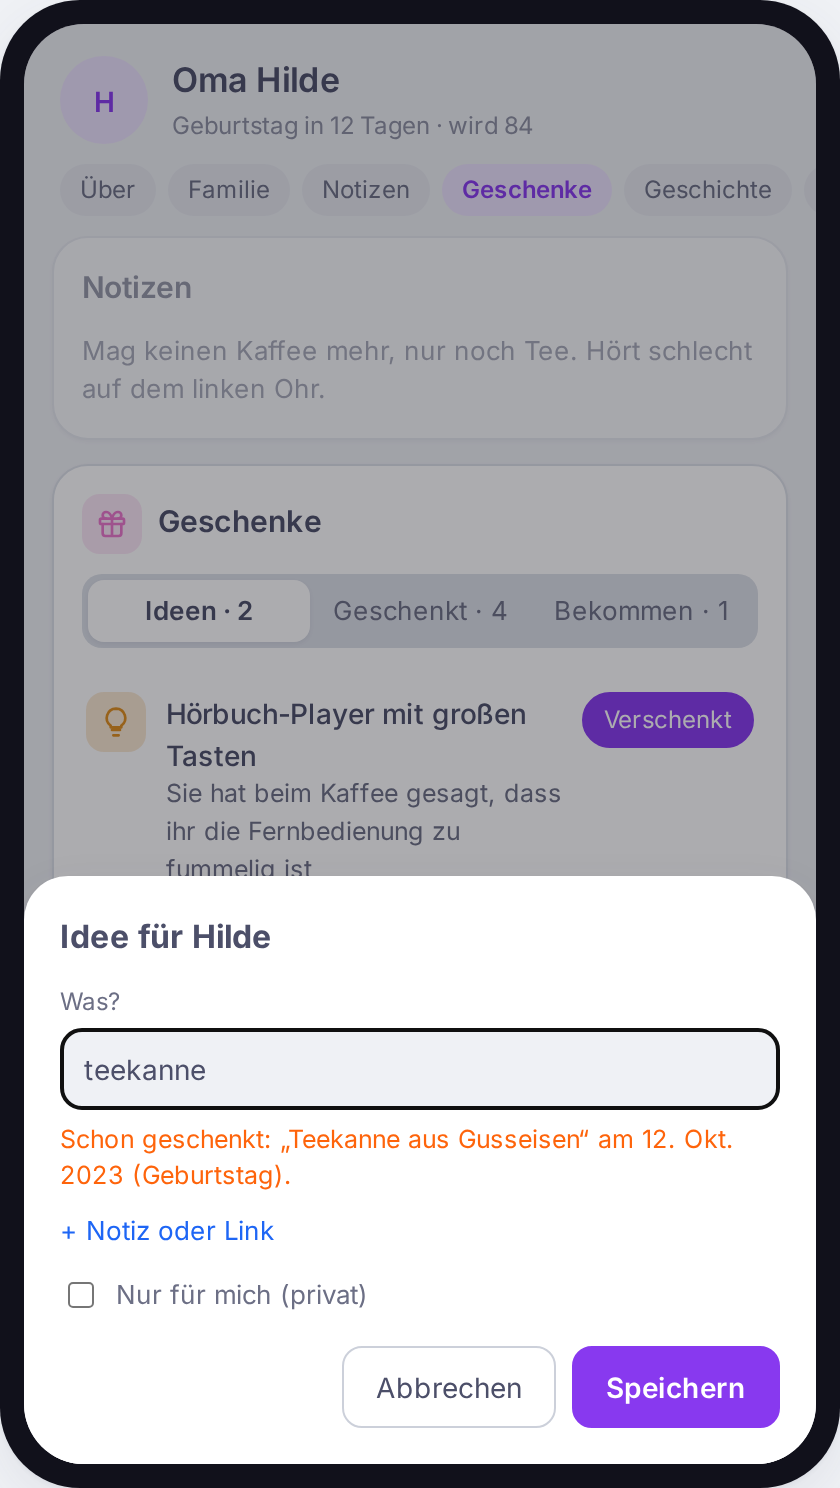
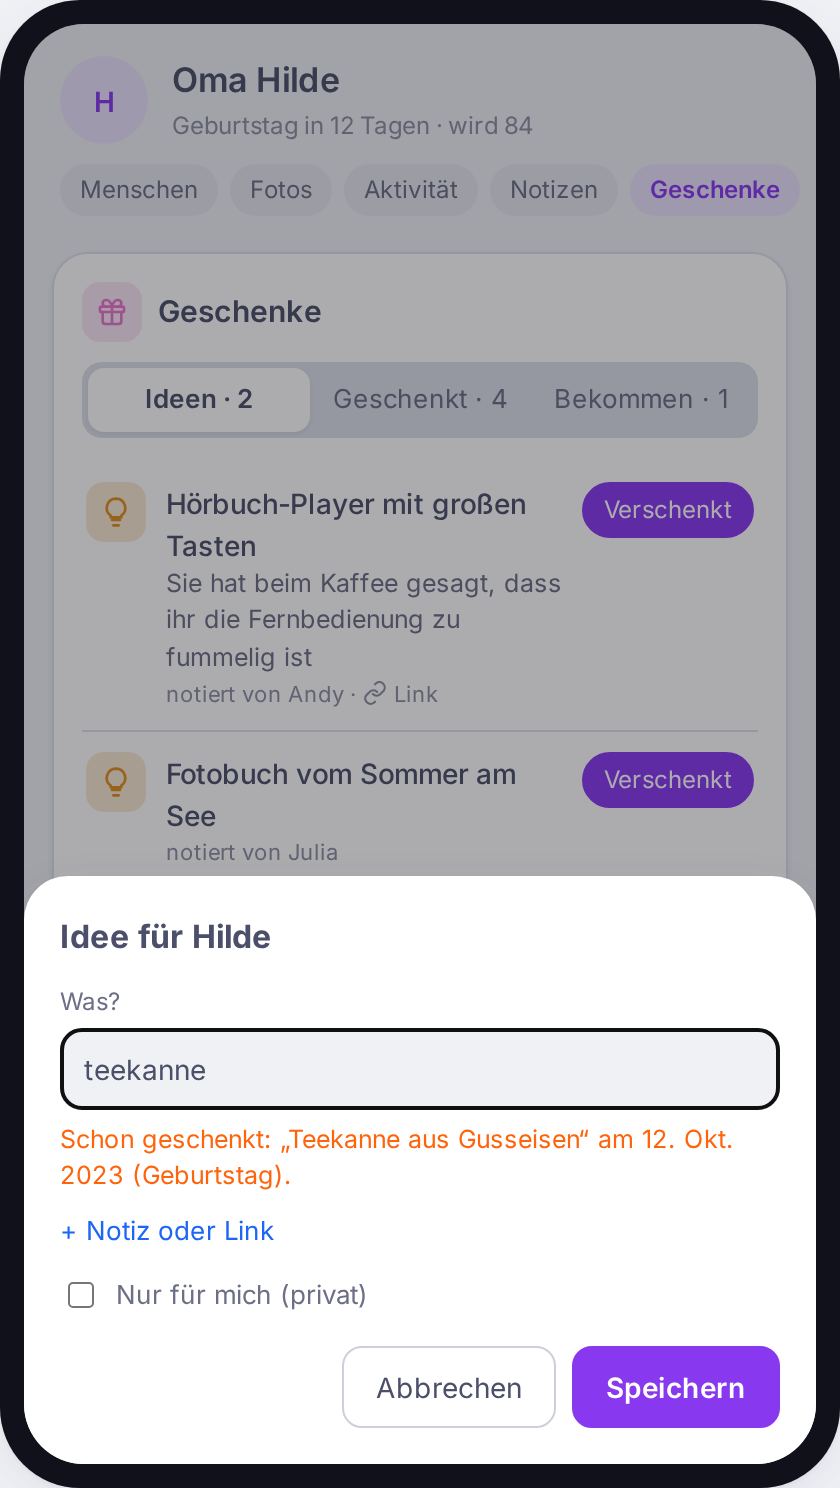
docs(gifts): fit the gifts concept to the current main (#307)
Since the concept: moment means a journal entry and the gift kind is a
touchpoint kind, the story is headed Activity, the person page's card order
and one-line empty cards changed, routes reach use-cases through
locals.services and every addition is a command with its own payload schema.
The concept and its mockup now say so; the decisions are unchanged.

diff --git a/docs/concepts/gifts.html b/docs/concepts/gifts.html
@@ -108,17 +108,18 @@
     <div class="kicker">Konzept · Mockup</div>
     <h1>Geschenke: Ideen merken, Geschenktes nachlesen</h1>
     <p class="lede">Auf der Seite einer Person gibt es eine neue Karte <b>Geschenke</b> mit drei Tabs: offene <b>Ideen</b>, was wir <b>geschenkt</b> haben und was wir <b>bekommen</b> haben.
-    Probier es aus: Notier eine Idee. Tipp „Teekanne“ ein, dann siehst du den Hinweis, dass sie schon geschenkt wurde. Markier eine Idee mit <i>Verschenkt</i>; danach steht sie auch in der Geschichte.</p>
+    Probier es aus: Notier eine Idee. Tipp „Teekanne“ ein, dann siehst du den Hinweis, dass sie schon geschenkt wurde. Markier eine Idee mit <i>Verschenkt</i>; danach steht sie auch unter <i>Aktivität</i>.</p>
   </header>
 
   <div class="row">
     <div class="col">
       <h2>1 · Personenseite</h2>
-      <p>Die Karte steht nach <i>Notizen</i> und bekommt einen eigenen Anker in der Sprungleiste.</p>
+      <p>Die Karte steht nach <i>Notizen</i> und vor <i>Erwähnt in</i> und hat einen eigenen Eintrag in der Sprungleiste. Ohne Geschenke ist sie nur eine Zeile, wie die anderen leeren Karten.</p>
       <div class="phone"><div class="screen" id="screen">
         <div class="topbar"><div class="avatar">H</div><div><div class="name">Oma Hilde</div><div class="sub">Geburtstag in 12 Tagen · wird 84</div></div></div>
-        <div class="jump"><span>Über</span><span>Familie</span><span>Notizen</span><span class="on">Geschenke</span><span>Geschichte</span><span>Fotos</span></div>
+        <div class="jump"><span>Menschen</span><span>Fotos</span><span>Aktivität</span><span>Notizen</span><span class="on">Geschenke</span></div>
         <div class="scroll">
+          <div class="card story"><div class="card-h"><h3>Aktivität</h3></div><div id="story"></div></div>
           <div class="card ghost"><div class="card-h"><h3>Notizen</h3></div><p>Mag keinen Kaffee mehr, nur noch Tee. Hört schlecht auf dem linken Ohr.</p></div>
 
           <div class="card" id="gifts">
@@ -127,8 +128,9 @@
             <div id="list"></div>
             <div class="adds"><button onclick="openAdd('idea')">+ Idee</button><button onclick="openAdd('given')">+ Geschenkt</button><button onclick="openAdd('received')">+ Bekommen</button></div>
           </div>
+          <div class="card ghost"><div class="card-h"><h3>Erwähnt in</h3></div><p>Im Moment von Julia, 3. Aug. 2025: „Mit Oma Hilde am See …“</p></div>
+          <div style="height:360px" aria-hidden="true"></div>
 
-          <div class="card story"><div class="card-h"><h3>Geschichte</h3></div><div id="story"></div></div>
         </div>
 
         <div class="sheet-bg" id="sheetAdd" onclick="if(event.target===this)close_()"><div class="sheet">
@@ -152,11 +154,11 @@
 
     <div class="col">
       <h2>2 · Vor dem Anlass</h2>
-      <p>Wo Stella bevorstehende Geburtstage schon zeigt, steht ein kleiner Hinweis, wenn es offene Ideen gibt. Es wird nichts verschickt.</p>
+      <p>Im Bereich <i>Kommt bald</i> der Startseite steht ein kleiner Hinweis, wenn es offene Ideen gibt. Es wird nichts verschickt.</p>
       <div class="phone"><div class="screen">
         <div class="topbar"><div><div class="name">Startseite</div><div class="sub">Dienstag, 6. Oktober</div></div></div>
         <div class="scroll">
-          <div class="card"><div class="card-h"><h3>Demnächst</h3></div>
+          <div class="card"><div class="card-h"><h3>Kommt bald</h3></div>
             <div class="bday"><div class="avatar">H</div><div class="grow"><div class="t">Oma Hilde · 84</div><div class="sub">Geburtstag am 18. Okt.</div><span class="gifthint" id="homeHint"></span></div></div>
             <div class="bday"><div class="avatar">P</div><div><div class="t">Peter</div><div class="sub">Geburtstag am 2. Nov.</div></div></div>
             <div class="bday"><div class="avatar">J</div><div><div class="t">Julia &amp; Tom</div><div class="sub">Hochzeitstag am 14. Nov.</div><span class="gifthint">1 Idee</span></div></div>
@@ -178,7 +180,7 @@ Teekanne
 12.10.2023
 Die schwarze aus dem Laden am Markt</pre>
       </div>
-      <p class="note-box">So wird umgesetzt: <code>idea</code> wird Idee, <code>offered</code> wird Geschenkt, und <code>received</code> wird Bekommen. Bisherige Momente der Art „Geschenk“ werden ebenfalls zu Geschenken. Eine Notiz, die du nach dem Import bearbeitet hast, bleibt unverändert.</p>
+      <p class="note-box">So wird umgesetzt: <code>idea</code> wird Idee, <code>offered</code> wird Geschenkt, und <code>received</code> wird Bekommen. Bisherige Kontakte der Art „Geschenk“ (<i>Kontakt festhalten</i>) werden ebenfalls zu Geschenken. Eine Notiz, die du nach dem Import bearbeitet hast, bleibt unverändert.</p>
     </div>
   </div>
 </div>
@@ -236,6 +238,8 @@ function openGive(id){state.giving=id;state.occasion='Geburtstag';const g=gifts.
 function give(){const g=gifts.find(x=>x.id===state.giving);g.state='given';g.on=gOn.value;g.occ=state.occasion;state.tab='given';close_();render()}
 function close_(){sheetAdd.classList.remove('open');sheetGive.classList.remove('open')}
 render();
+// Open where the jump bar points: the Gifts card, not the top of the page.
+const giftsCard=document.getElementById('gifts'); giftsCard.parentNode.scrollTop=giftsCard.offsetTop-giftsCard.parentNode.offsetTop-8;
 </script>
 </body>
 </html>

diff --git a/docs/concepts/gifts.md b/docs/concepts/gifts.md
@@ -1,6 +1,7 @@
 # Concept — Gift ideas and gifts given
 
-Status: **decided, not built.** Written and decided with the maintainer on 2026-10-06 (§8). Mockup:
+Status: **decided, not built.** Written and decided with the maintainer on 2026-10-06 (§8);
+checked against `main` on 2026-10-08 (§9). Mockup:
 `docs/concepts/gifts.html`. Roadmap: docs/06 M3, *Gift ideas and gifts given*.
 
 ---
@@ -48,32 +49,36 @@ keeps up. The creator is shown as *noted by*.
 
 ### 3.1 The person page
 
-A new card **Gifts**, with its own anchor in the jump bar (`src/lib/contacts/sections.ts`),
-placed after *Notes*. Three tabs:
+A new card **Gifts** (*Geschenke*), a new entry `'gifts'` in `CONTACT_SECTIONS`
+(`src/lib/contacts/sections.ts`) between *Notes* and *Mentioned in*, so it gets its anchor and
+its jump-bar link the way the other cards do. Three tabs:
 
 - **Ideas** — open ideas, newest first. Each row: title, note preview, link icon, *Mark as
   given*. Empty state: *Got an idea for Hilde? Note it here so it is there on her birthday.*
 - **Given** — given gifts, newest first, grouped by year: *2025 · Birthday · Teapot*.
 - **Received** — what they gave us, the same way. The tab only shows once there is one.
 
-The tab count shows how many ideas are open: *Ideas · 3*.
+The tab count shows how many ideas are open: *Ideas · 3*. With no gift at all the card follows
+the empty-card rule (`src/lib/contacts/empty-cards.ts`, #293): one line — title, one sentence,
+*+ Idea* — and the jump bar links to it like to the other one-line cards.
 
-### 3.2 The story
+### 3.2 The story (*Activity*)
 
-A given or received gift appears in the person's story on its day, like a moment, with the gift icon and
+A given or received gift appears in the person's story — the card headed *Activity* — on its
+day, next to the journal entries and touchpoints, with the gift icon and
 accent the story already uses (`--kind-gift`). It is **read from the gift record**, not a
 copy, so editing or deleting the gift changes the story too. Ideas never appear in the story.
 
-The story already has a moment kind *Gift* (`interaction.kind = 'gift'`). It goes away (§8 Q2):
-each existing gift moment becomes a **given** gift on its person, its title or description
-as the gift's title, its day as the gift's day, its visibility and author kept. A gift moment
-with participants becomes one gift per participant (§8 Q3). The moment picker no longer offers
+The story already has a **touchpoint** kind *gift* (`interaction.kind = 'gift'`, offered by
+*Log contact* / *Kontakt festhalten*). It goes away (§8 Q2): each existing gift touchpoint
+becomes a **given** gift on its person, its title or description as the gift's title, its day
+as the gift's day, its visibility and author kept. A gift touchpoint with participants becomes
+one gift per participant (§8 Q3). *Log contact* no longer offers
 *Gift*; *+ Given* on the Gifts card takes its place.
 
 ### 3.3 Before an occasion
 
-Where Stella already lists upcoming birthdays and anniversaries (Home, docs/02 §2.13), a
-person with open ideas shows a small hint: *🎁 2 ideas* (with the gift icon, not an emoji),
+In the **Coming up** band of Home's rail (docs/02 §2.13.3), a person with open ideas shows a small hint: *🎁 2 ideas* (with the gift icon, not an emoji),
 linking to their Gifts card. Nothing new is sent or scheduled; it only shows where the
 occasion is already shown.
 
@@ -92,7 +97,8 @@ can be on purpose.
   needs only the title.
 - *+ Given* records a past gift directly, with day and occasion, for catching up.
 - *+ Received* (in the card's menu) records a present from them.
-- The command palette gets *Gift idea for …*, so an idea can be noted from anywhere.
+- The command palette gets *Gift idea for …* next to *Write a moment*, so an idea can be noted
+  from anywhere.
 - Every addition goes through the offline outbox like any other (docs/04 §4.11.2), so an idea
   typed on the train is kept.
 
@@ -140,7 +146,7 @@ gift *value* and *recipient relative* were not carried over.
 `offered` → given, `received` → received — and removes the note.
 A note that was edited since the import, or whose first line no longer parses, is left alone
 and named in the migration's log, so nothing written by hand is lost. The importer itself then
-writes gift records instead of notes. The same migration turns the gift moments into gifts
+writes gift records instead of notes. The same migration turns the gift touchpoints into gifts
 (§3.2) and drops `'gift'` from `interaction.kind`.
 
 ---
@@ -156,7 +162,33 @@ writes gift records instead of notes. The same migration turns the gift moments 
 
 1. **Gifts received** are kept as a third state with their own tab; Monica's `received` gifts
    move there.
-2. **The moment kind *Gift*** is converted into gift records and dropped — one place for gifts.
+2. **The touchpoint kind *gift*** is converted into gift records and dropped — one place for gifts.
 3. **One gift belongs to one person.** A couple's present is noted on each; a converted gift
-   moment with participants becomes one gift per person.
+   touchpoint with participants becomes one gift per person.
 4. **The household idea list** waits; the person page comes first.
+
+---
+
+## 9. Checked against `main` on 2026-10-08
+
+About 60 commits landed after the concept. What they change for it, already folded in above:
+
+- **Vocabulary** (#260, glossary docs/03 §3.0): *moment* now means a journal entry; the gift kind
+  is a **touchpoint** kind; the person's story is headed *Activity*; *activity* alone is the
+  household log. The build adds **gift** to the glossary: *a present for one person — an idea,
+  given or received* (`gift`, `domain/gifts/`, `lib/gifts/`), *not used:* present, wish.
+- **Person page** (#263, #290, #293): the card order is now People, Photos, Activity, Notes,
+  Mentioned in; Gifts goes after Notes. An empty Gifts card is one line, like Photos and Notes.
+- **Services** (AR-01, #296–#305): routes reach use-cases through `locals.services.<context>`;
+  gifts become their own group, `locals.services.gifts`, wired in
+  `src/lib/server/services/`.
+- **Commands** (AR-04, #295): every addition is a command with one payload schema in
+  `src/lib/commands/payloads.ts`, read by form actions through `fromFormData`, so the outbox
+  and the form share it — *addGift*, *editGift*, *markGiftGiven*, *removeGift*.
+- **Home** (#255, docs/02 §2.22.2): the quieter Home keeps the *Coming up* band in its rail;
+  docs/02 §2.22 already says the gifts panel returns with the gifts feature. The hint of §3.3
+  is that return, inside the band rather than a panel of its own.
+- **List dividers** are uppercase labels now (#292); the Given tab's year dividers use them.
+
+Nothing in the decisions of §8 changes.
+
